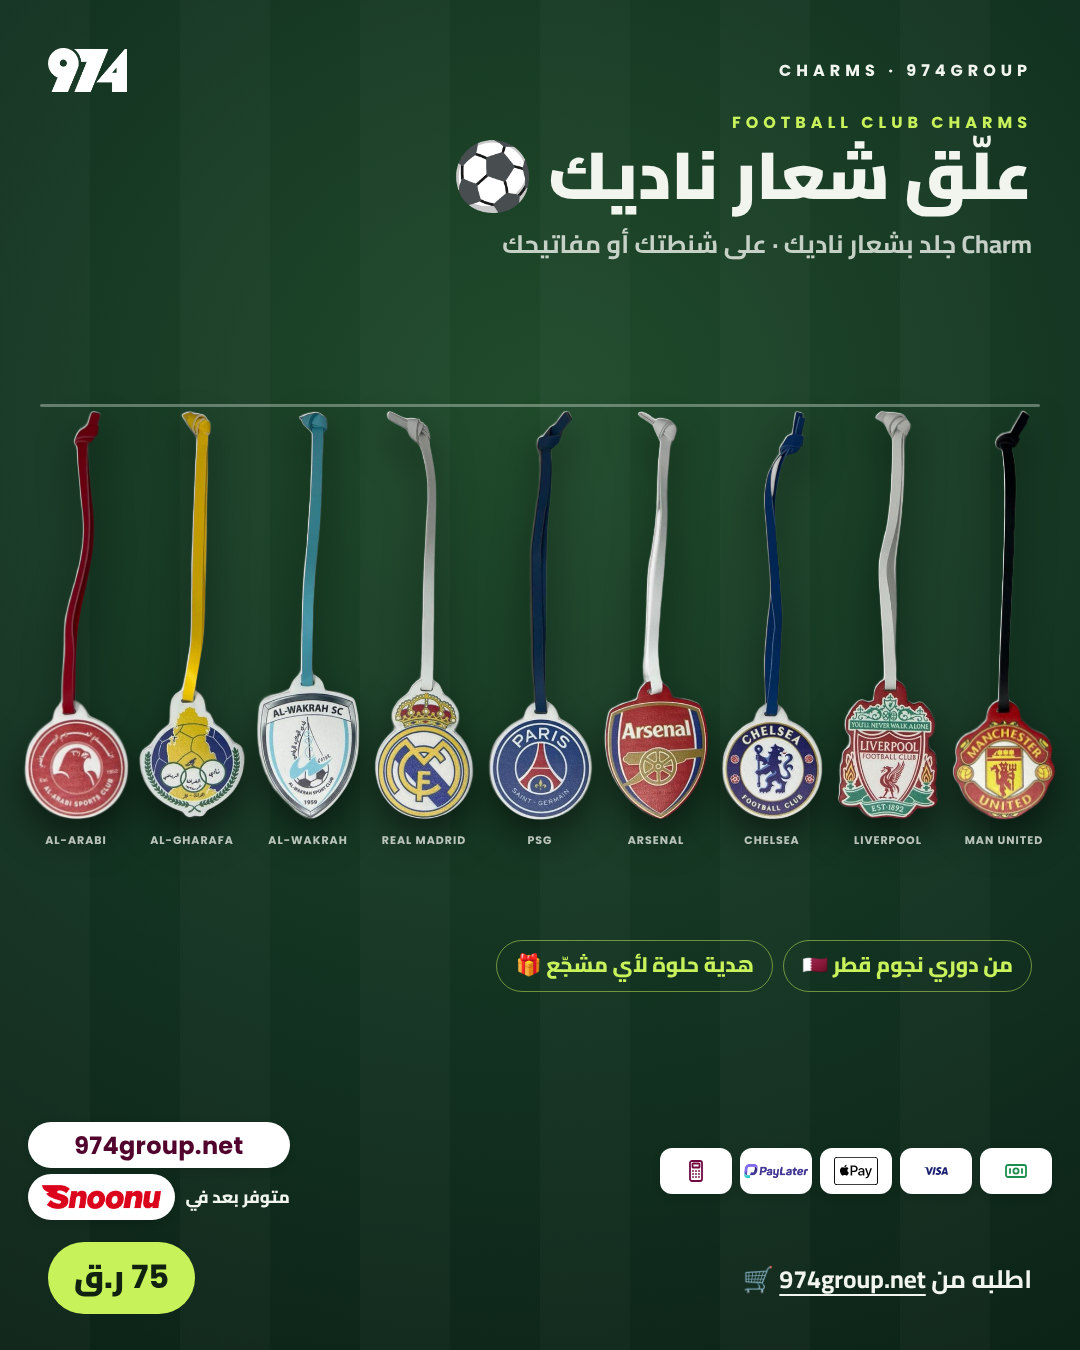
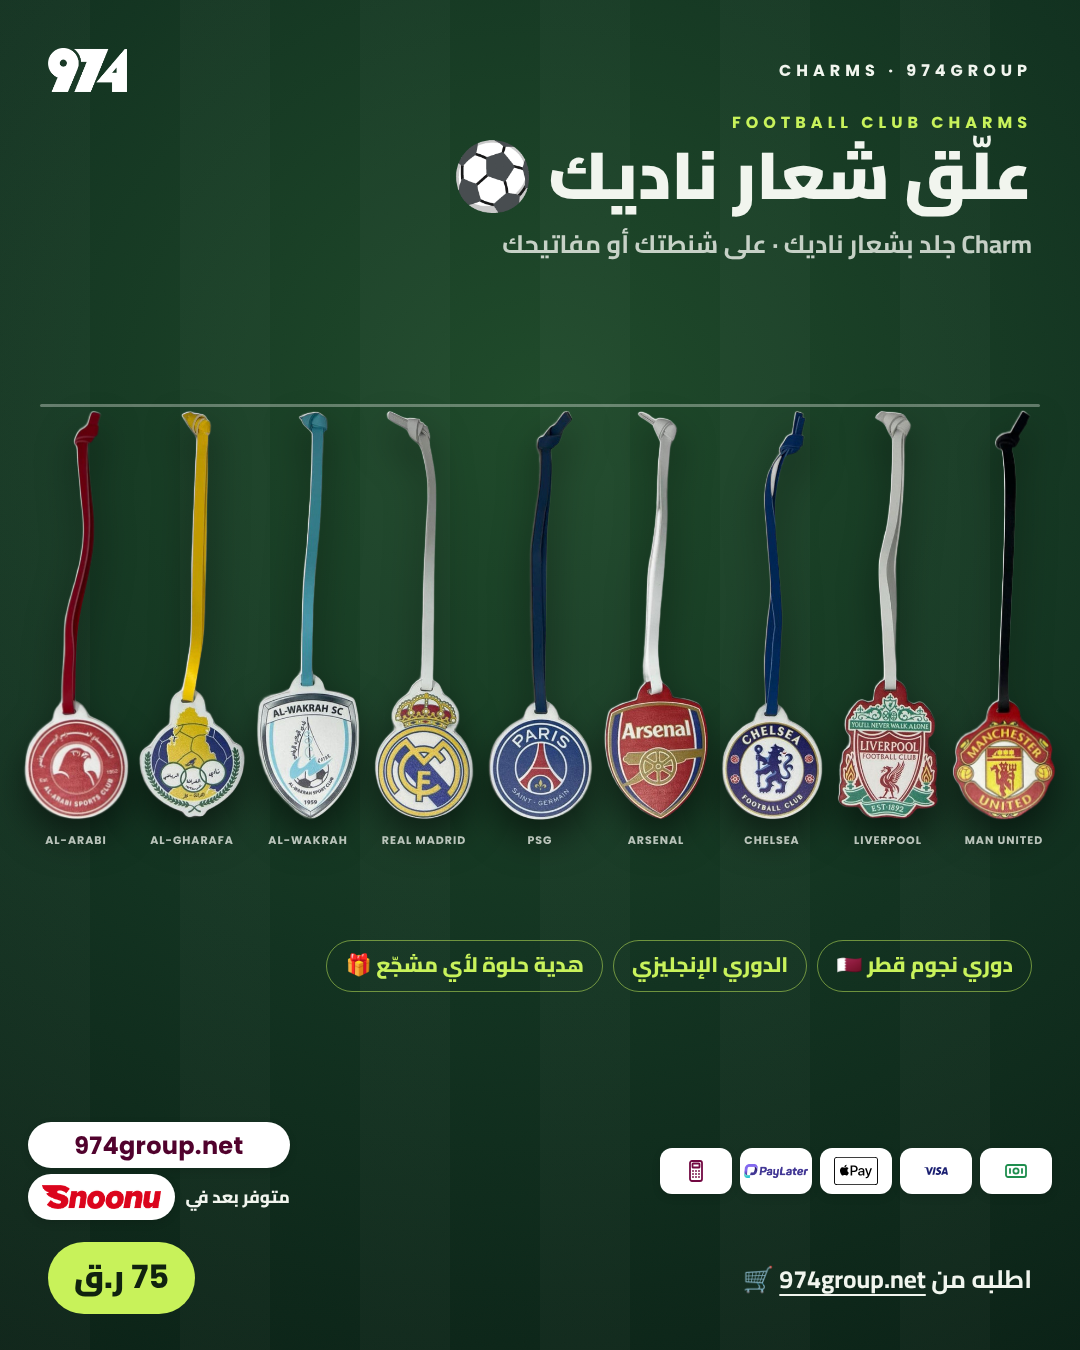
Charms: league chips
Claude-Session: https://claude.ai/code/session_01K6HDWNrArsGSJekW1VcEzV

Changed region(s): [[0.3056, 0.6844, 0.9167, 0.7467]]

diff --git a/posts/2026-11/club-charms/out/974-club-charms-story.html b/posts/2026-11/club-charms/out/974-club-charms-story.html
@@ -45,7 +45,7 @@ body{width:1080px;height:1920px;background:radial-gradient(110% 80% at 50% 30%,#
 </div>
 <div class="abs" style="left:40px;right:40px;top:574px;height:3px;border-radius:3px;background:rgba(241,245,238,.35)"></div><div class="c" style="left:50px;top:580px;width:196px"><img src="file:///home/claude/974-social/products/charms-clubs/cut/alarabi.png" style="height:330px"><i class="en">AL-ARABI</i></div><div class="c" style="left:246px;top:580px;width:196px"><img src="file:///home/claude/974-social/products/charms-clubs/cut/algharafa.png" style="height:330px"><i class="en">AL-GHARAFA</i></div><div class="c" style="left:442px;top:580px;width:196px"><img src="file:///home/claude/974-social/products/charms-clubs/cut/alwakrah.png" style="height:330px"><i class="en">AL-WAKRAH</i></div><div class="c" style="left:638px;top:580px;width:196px"><img src="file:///home/claude/974-social/products/charms-clubs/cut/realmadrid.png" style="height:330px"><i class="en">REAL MADRID</i></div><div class="c" style="left:834px;top:580px;width:196px"><img src="file:///home/claude/974-social/products/charms-clubs/cut/psg.png" style="height:330px"><i class="en">PSG</i></div><div class="abs" style="left:40px;right:40px;top:1034px;height:3px;border-radius:3px;background:rgba(241,245,238,.35)"></div><div class="c" style="left:148px;top:1040px;width:196px"><img src="file:///home/claude/974-social/products/charms-clubs/cut/arsenal.png" style="height:330px"><i class="en">ARSENAL</i></div><div class="c" style="left:344px;top:1040px;width:196px"><img src="file:///home/claude/974-social/products/charms-clubs/cut/chelsea.png" style="height:330px"><i class="en">CHELSEA</i></div><div class="c" style="left:540px;top:1040px;width:196px"><img src="file:///home/claude/974-social/products/charms-clubs/cut/liverpool.png" style="height:330px"><i class="en">LIVERPOOL</i></div><div class="c" style="left:736px;top:1040px;width:196px"><img src="file:///home/claude/974-social/products/charms-clubs/cut/manutd.png" style="height:330px"><i class="en">MAN UNITED</i></div>
 <div class="abs ar" style="right:48px;left:48px;top:1460px;display:flex;gap:10px;flex-wrap:wrap;direction:rtl">
- <span class="fx">من دوري نجوم قطر 🇶🇦</span><span class="fx">هدية حلوة لأي مشجّع 🎁</span>
+ <span class="fx">دوري نجوم قطر 🇶🇦</span><span class="fx">الدوري الإنجليزي</span><span class="fx">هدية حلوة لأي مشجّع 🎁</span>
 </div><div class="grain"></div>
 <div class="top"><img src="file:///home/claude/974-social/posts/2026-11/pilates-socks/src/logo-white.png"><span>CHARMS · 974GROUP</span></div>
 <div class="pf"><div class="payfoot"><div class="pills">

diff --git a/posts/2026-11/club-charms/out/974-club-charms-post.html b/posts/2026-11/club-charms/out/974-club-charms-post.html
@@ -45,7 +45,7 @@ body{width:1080px;height:1350px;background:radial-gradient(110% 80% at 50% 30%,#
 </div>
 <div class="abs" style="left:40px;right:40px;top:404px;height:3px;border-radius:3px;background:rgba(241,245,238,.35)"></div><div class="c" style="left:18px;top:410px;width:116px"><img src="file:///home/claude/974-social/products/charms-clubs/cut/alarabi.png" style="height:410px"><i class="en">AL-ARABI</i></div><div class="c" style="left:134px;top:410px;width:116px"><img src="file:///home/claude/974-social/products/charms-clubs/cut/algharafa.png" style="height:410px"><i class="en">AL-GHARAFA</i></div><div class="c" style="left:250px;top:410px;width:116px"><img src="file:///home/claude/974-social/products/charms-clubs/cut/alwakrah.png" style="height:410px"><i class="en">AL-WAKRAH</i></div><div class="c" style="left:366px;top:410px;width:116px"><img src="file:///home/claude/974-social/products/charms-clubs/cut/realmadrid.png" style="height:410px"><i class="en">REAL MADRID</i></div><div class="c" style="left:482px;top:410px;width:116px"><img src="file:///home/claude/974-social/products/charms-clubs/cut/psg.png" style="height:410px"><i class="en">PSG</i></div><div class="c" style="left:598px;top:410px;width:116px"><img src="file:///home/claude/974-social/products/charms-clubs/cut/arsenal.png" style="height:410px"><i class="en">ARSENAL</i></div><div class="c" style="left:714px;top:410px;width:116px"><img src="file:///home/claude/974-social/products/charms-clubs/cut/chelsea.png" style="height:410px"><i class="en">CHELSEA</i></div><div class="c" style="left:830px;top:410px;width:116px"><img src="file:///home/claude/974-social/products/charms-clubs/cut/liverpool.png" style="height:410px"><i class="en">LIVERPOOL</i></div><div class="c" style="left:946px;top:410px;width:116px"><img src="file:///home/claude/974-social/products/charms-clubs/cut/manutd.png" style="height:410px"><i class="en">MAN UNITED</i></div>
 <div class="abs ar" style="right:48px;left:48px;top:940px;display:flex;gap:10px;flex-wrap:wrap;direction:rtl">
- <span class="fx">من دوري نجوم قطر 🇶🇦</span><span class="fx">هدية حلوة لأي مشجّع 🎁</span>
+ <span class="fx">دوري نجوم قطر 🇶🇦</span><span class="fx">الدوري الإنجليزي</span><span class="fx">هدية حلوة لأي مشجّع 🎁</span>
 </div><div class="grain"></div>
 <div class="top"><img src="file:///home/claude/974-social/posts/2026-11/pilates-socks/src/logo-white.png"><span>CHARMS · 974GROUP</span></div>
 <div class="pf"><div class="payfoot"><div class="pills">

diff --git a/posts/2026-11/club-charms/gen.py b/posts/2026-11/club-charms/gen.py
@@ -31,7 +31,7 @@ def charms(story=False):
 </div>
 {h}
 <div class="abs ar" style="right:48px;left:48px;top:{o+(1310 if story else 940)}px;display:flex;gap:10px;flex-wrap:wrap;direction:rtl">
- <span class="fx">من دوري نجوم قطر 🇶🇦</span><span class="fx">هدية حلوة لأي مشجّع 🎁</span>
+ <span class="fx">دوري نجوم قطر 🇶🇦</span><span class="fx">الدوري الإنجليزي</span><span class="fx">هدية حلوة لأي مشجّع 🎁</span>
 </div>'''
     extra = f'''.c{{position:absolute;display:flex;flex-direction:column;align-items:center}}
 .c img{{filter:drop-shadow(0 18px 18px rgba(0,0,0,.5))}}
